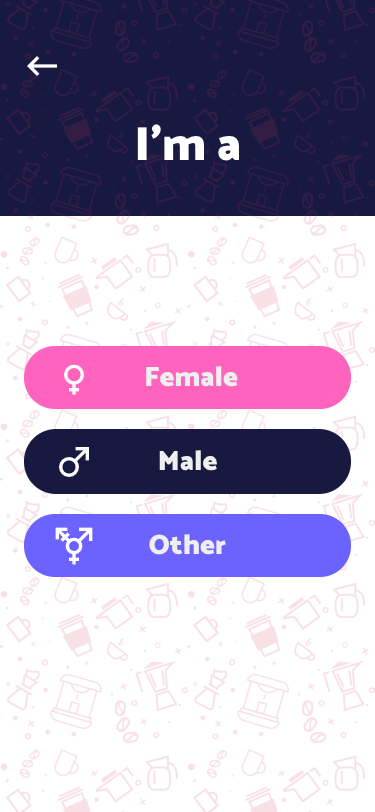
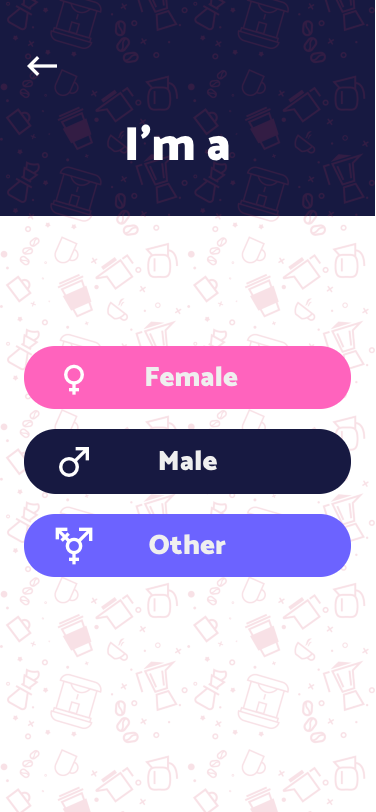
add new renders

diff --git a/src/screens/OnboardingGender.js b/src/screens/OnboardingGender.js
@@ -15,7 +15,9 @@ export default class OnboardingGender extends Component {
           source={require("../assets/Asset_50.png")}
           resizeMode="repeat"
         />
-        <Text style={styles.text}>I'm a</Text>
+        <Center horizontal>
+          <Text style={styles.text}>I'm a</Text>
+        </Center>
         <View style={styles.rect2}>
           <Center vertical>
             <Text style={styles.text2}>Female</Text>
@@ -88,13 +90,14 @@ const styles = StyleSheet.create({
     opacity: 0.15
   },
   text: {
-    top: 122.03,
-    left: "35.73%",
+    top: 122,
+
     position: "absolute",
     backgroundColor: "transparent",
     fontSize: 48,
     fontFamily: "Catamaran-Black",
-    color: "rgba(255,255,255,1)"
+    color: "rgba(255,255,255,1)",
+    width: 128
   },
   rect2: {
     left: "6.4%",

diff --git a/src/screens/OnboardingAge.js b/src/screens/OnboardingAge.js
@@ -66,7 +66,7 @@ const styles = StyleSheet.create({
     fontFamily: "Catamaran-Black",
     color: "rgba(255,255,255,1)",
     left: 88,
-    right: 88
+    width: 200
   },
   icon: {
     top: 46,

diff --git a/README.md b/README.md
@@ -7,4 +7,6 @@ A React Native Dating App template by Cuffed. Uses modern design elements.
   <img src="renders/dec-11/OnboardingGender.png" alt="Onboarding - Self-identify gender">
   <img src="renders/dec-11/OnboardingGenderPref.png" alt="Onboarding - Select orientation">
   <img src="renders/dec-11/OnboardingAge.png" alt="Onboarding - Specify age">
+  <img src="renders/dec-11/OnboardingTooYoung.png" alt="Onboarding - Too young!">
+  <img src="renders/dec-11/OnboardingLocation.png" alt="Onboarding - Location">
 </p>
